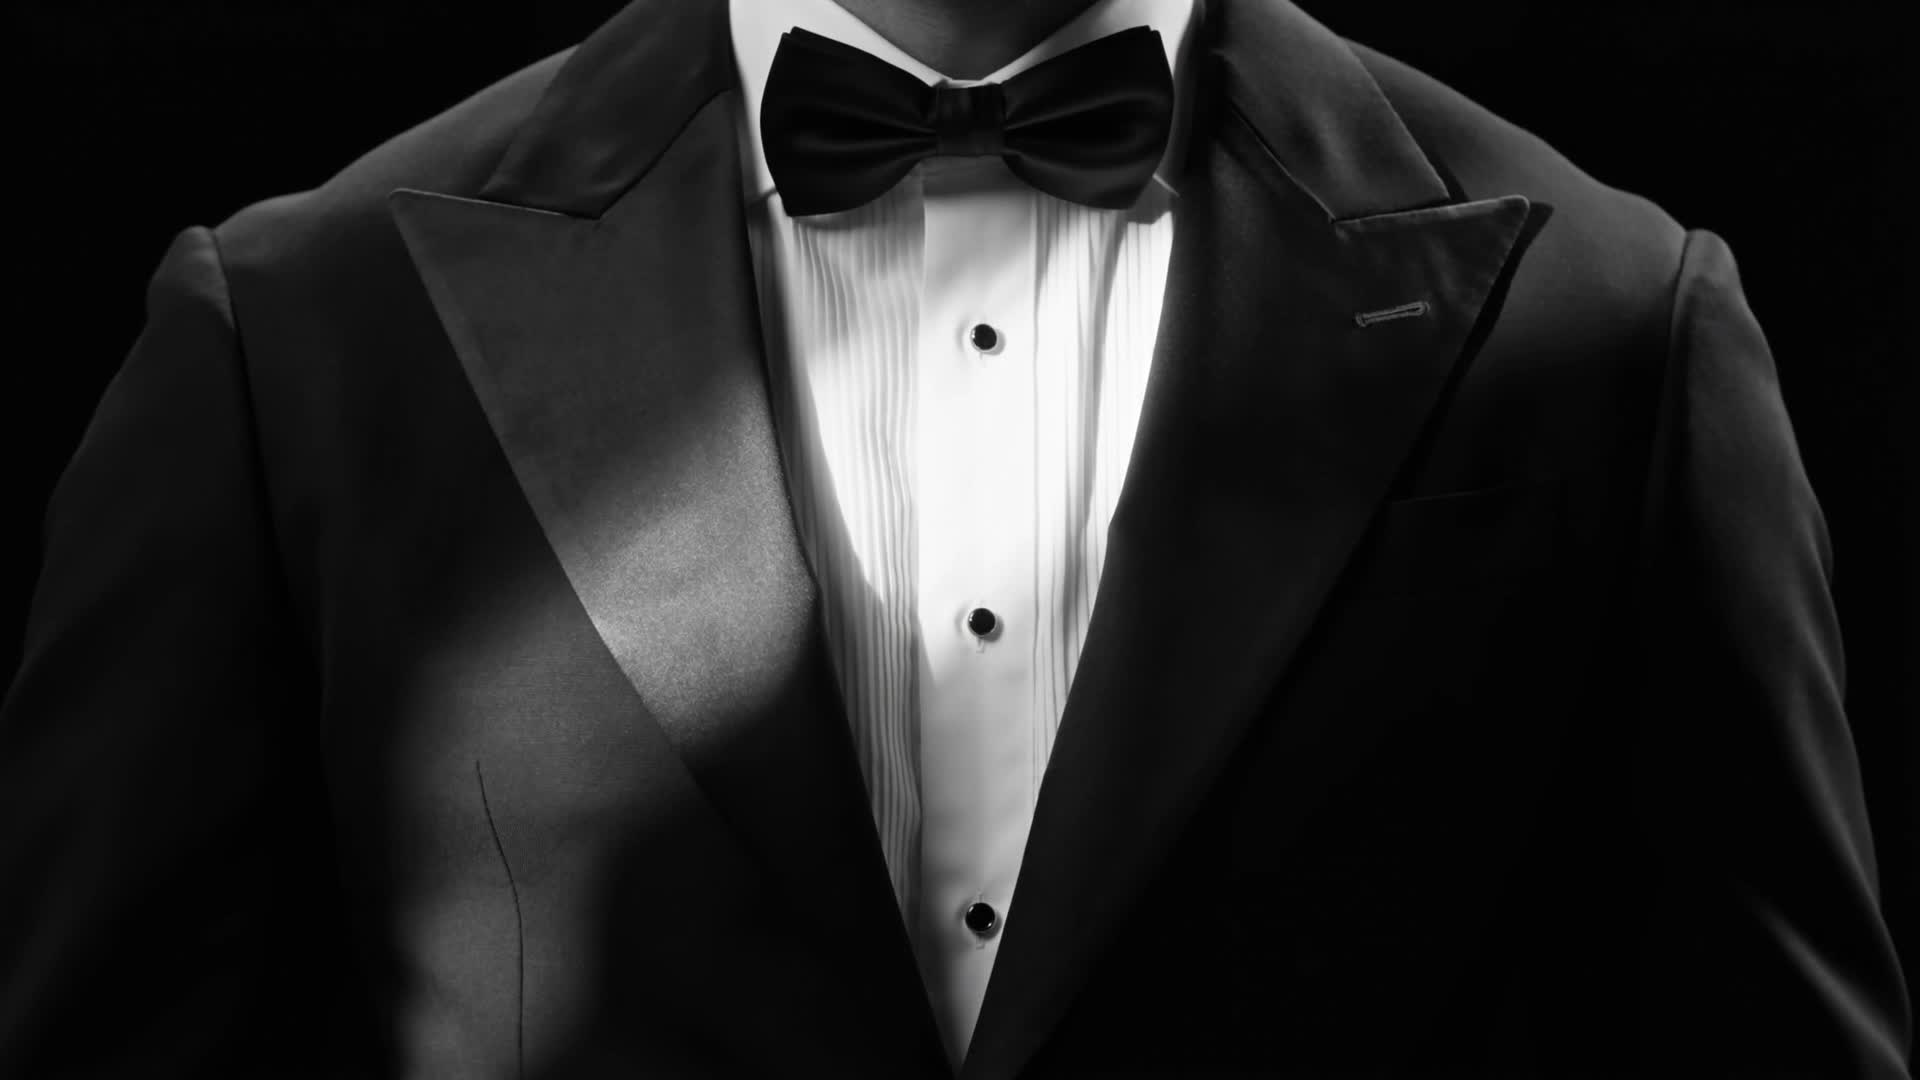
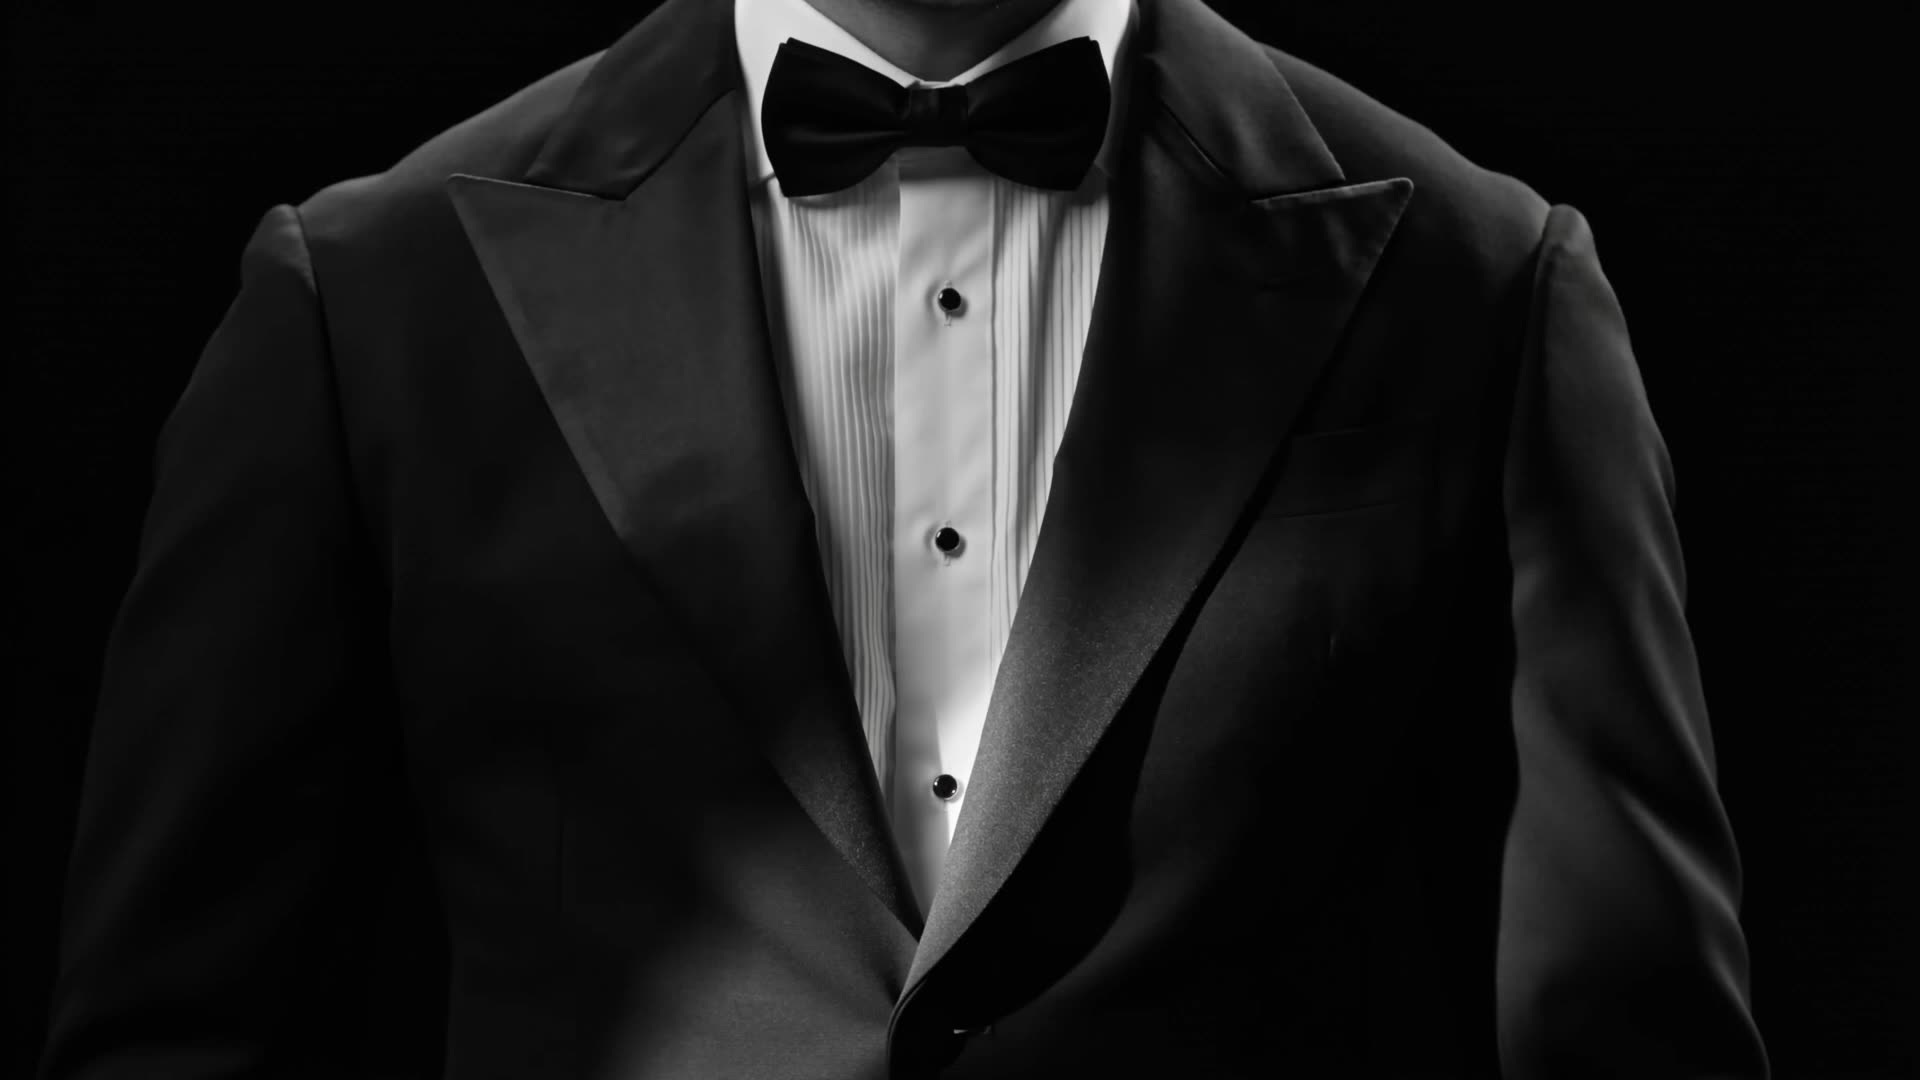
Hero: play HERO_LOOP.mp4 on a continuous loop
The previous clip played once and froze on its final frame, with a
timeupdate handler pausing just before the end to avoid end-of-clip
flicker. The new footage is a montage cut to repeat, so it now runs
with the native loop attribute and never settles.

- Point the source at HERO_LOOP.mp4; Hero_animation.mp4 was removed on
  the default branch, so the old path no longer resolved.
- Drop the opening-beat objectPosition correction. It was calibrated to
  the previous clip's first second, and under looping it would have
  replayed that pan on every cycle. A plain centred crop replaces it,
  which removes the effect and its refs entirely.
- Regenerate hero-poster.jpg from frame 0 of the new clip so playback
  starts with no jump and reduced-motion visitors see current footage
  rather than a still from the deleted video.

Claude-Session: https://claude.ai/code/session_01FykLbgPvx7saFJkPjrUqu3

diff --git a/components/Hero.tsx b/components/Hero.tsx
@@ -1,7 +1,6 @@
 "use client";
 
 import Image from "next/image";
-import { useEffect, useRef } from "react";
 import { motion, useReducedMotion } from "framer-motion";
 import Button from "./Button";
 import { CALENDLY_URL } from "@/lib/site";
@@ -10,51 +9,6 @@ const EASE_OUT = [0.23, 1, 0.32, 1] as const;
 
 export default function Hero() {
   const reduced = useReducedMotion();
-  const videoRef = useRef<HTMLVideoElement>(null);
-
-  useEffect(() => {
-    const video = videoRef.current;
-    if (!video || reduced) return;
-
-    // The opening shot itself is framed slightly left of true centre and
-    // settles into place by about a second in. Nudge the crop window right
-    // to compensate only for that opening beat, easing back to a plain
-    // centred crop as the shot self-corrects — later scenes are untouched.
-    const CORRECTION_WINDOW = 1;
-    const START_POSITION = 47.3;
-    const DEFAULT_POSITION = 50;
-    let raf = 0;
-
-    const updateCrop = () => {
-      const t = video.currentTime;
-      if (t < CORRECTION_WINDOW) {
-        const progress = t / CORRECTION_WINDOW;
-        const x = START_POSITION + (DEFAULT_POSITION - START_POSITION) * progress;
-        video.style.objectPosition = `${x}% center`;
-        raf = requestAnimationFrame(updateCrop);
-      } else {
-        video.style.objectPosition = `${DEFAULT_POSITION}% center`;
-      }
-    };
-    raf = requestAnimationFrame(updateCrop);
-
-    // Plays once and stops on the final frame. Pausing a hair before the
-    // true end (rather than seeking back after "ended" fires) avoids the
-    // forward-then-back flicker some browsers show when they briefly blank
-    // out at the exact end of a clip and get nudged backward to recover.
-    const STOP_MARGIN = 0.15;
-    const stopBeforeEnd = () => {
-      if (video.duration && video.currentTime >= video.duration - STOP_MARGIN) {
-        video.pause();
-        video.removeEventListener("timeupdate", stopBeforeEnd);
-      }
-    };
-    video.addEventListener("timeupdate", stopBeforeEnd);
-    return () => {
-      cancelAnimationFrame(raf);
-      video.removeEventListener("timeupdate", stopBeforeEnd);
-    };
-  }, [reduced]);
 
   return (
     <section className="relative min-h-[100svh] w-full overflow-hidden flex items-center justify-center py-32">
@@ -70,12 +24,14 @@ export default function Hero() {
             className="object-cover"
           />
         ) : (
+          // A purpose-cut loop: it runs continuously rather than playing once
+          // and freezing, so the hero never settles into a still frame.
           <video
-            ref={videoRef}
             className="absolute inset-0 w-full h-full object-cover object-center"
-            src="/home/Hero_animation.mp4"
+            src="/home/HERO_LOOP.mp4"
             poster="/home/hero-poster.jpg"
             autoPlay
+            loop
             muted
             playsInline
             preload="auto"
